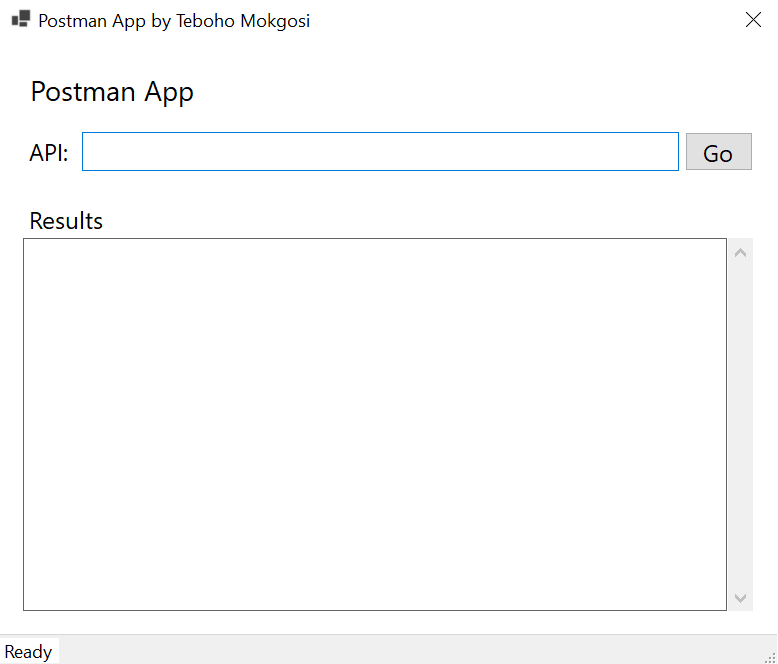
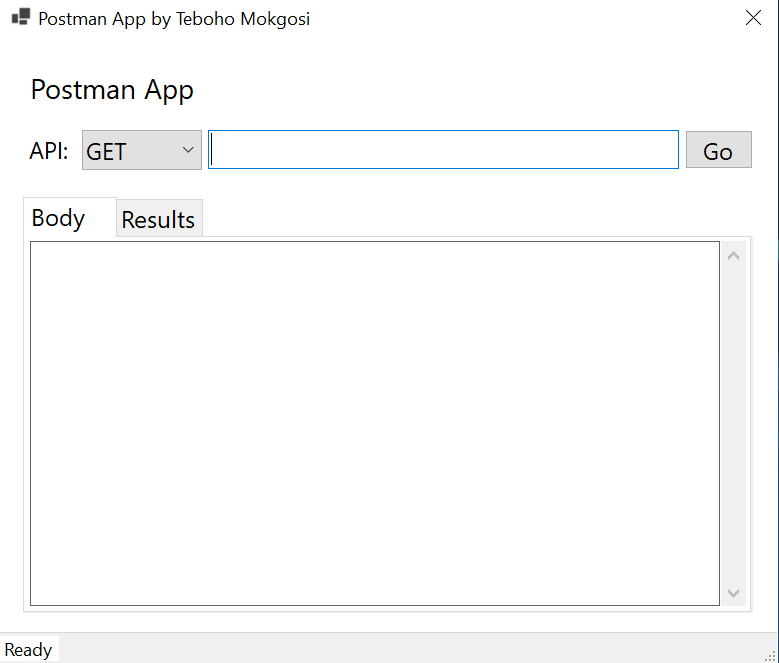
Sixth Commit
Implementing PUT, PATCH and DELETE commands as final edits

diff --git a/PostmanLibrary/ApiAccess.cs b/PostmanLibrary/ApiAccess.cs
@@ -11,13 +11,13 @@ public class ApiAccess : IApiAccess
 {
     private readonly HttpClient client = new();
 
-    public async Task<string> CallApiAsync(string url, string content, HttpAction action = HttpAction.GET, bool isformatOutput = true)
+    public async Task<string> CallApiAsync(string url, string content, HttpAction action = HttpAction.GET, bool formatOutput = true)
     {
         StringContent stringContent = new(content, Encoding.UTF8, "application/json");
-        return await CallApiAsync(url, new StringContent(content), action, isformatOutput);
+        return await CallApiAsync(url, stringContent, action, formatOutput);
     }
 
-    public async Task<string> CallApiAsync(string url, HttpContent? content = null, HttpAction action = HttpAction.GET, bool isformatOutput = true)
+    public async Task<string> CallApiAsync(string url, HttpContent? content = null, HttpAction action = HttpAction.GET, bool formatOutput = true)
     {
         HttpResponseMessage? response;
 
@@ -29,6 +29,15 @@ public class ApiAccess : IApiAccess
             case HttpAction.POST:
                 response = await client.PostAsync(url, content);
                 break;
+            case HttpAction.PUT:
+                response = await client.PutAsync(url, content);
+                break;
+            case HttpAction.PATCH:
+                response = await client.PatchAsync(url, content);
+                break;
+            case HttpAction.DELETE:
+                response = await client.DeleteAsync(url);
+                break;
             default:
                 throw new ArgumentOutOfRangeException(nameof (action), action, null);
         }
@@ -39,7 +48,7 @@ public class ApiAccess : IApiAccess
         {
             string json = await response.Content.ReadAsStringAsync();
 
-            if (isformatOutput)
+            if (formatOutput)
             {
                 var jsonElement = JsonSerializer.Deserialize<JsonElement>(json);
                 json = JsonSerializer.Serialize(jsonElement, new JsonSerializerOptions { WriteIndented = true });

diff --git a/PostmanUI/Dashboard.Designer.cs b/PostmanUI/Dashboard.Designer.cs
@@ -102,7 +102,7 @@
             // 
             httpVerbSelection.DropDownStyle = ComboBoxStyle.DropDownList;
             httpVerbSelection.FormattingEnabled = true;
-            httpVerbSelection.Items.AddRange(new object[] { "GET", "POST", "PATCH", "DELETE" });
+            httpVerbSelection.Items.AddRange(new object[] { "GET", "POST", "PUT", "PATCH", "DELETE" });
             httpVerbSelection.Location = new Point(84, 90);
             httpVerbSelection.Name = "httpVerbSelection";
             httpVerbSelection.Size = new Size(120, 40);

diff --git a/PostmanLibrary/Enums.cs b/PostmanLibrary/Enums.cs
@@ -9,5 +9,8 @@ namespace PostmanLibrary;
 public enum HttpAction
 {
     GET,
-    POST /*, POST, PUT, DELETE*/
+    POST, 
+    PUT,
+    PATCH,
+    DELETE
 }
